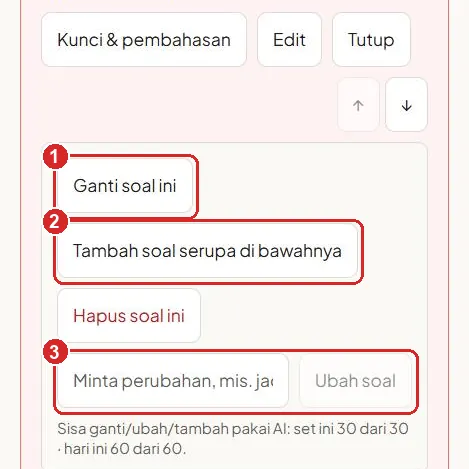
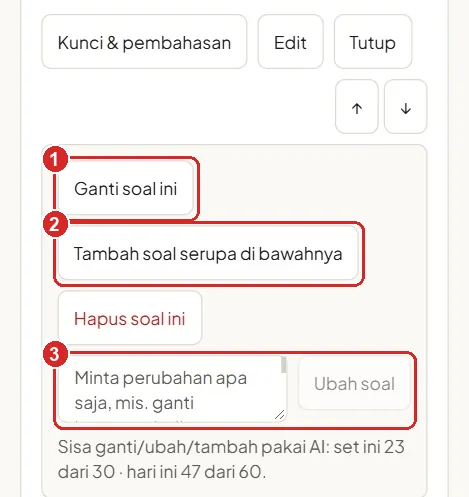
Panduan: gambar menu Lainnya diambil ulang (kotak Ubah soal 2 baris)
Foto HP 375 px (DPR 1,25) dari set uji 145, tanda 1-3 tetap: Ganti soal ini,
Tambah soal serupa, kotak permintaan + Ubah soal. Tinggi gambar 469 -> 497.

diff --git a/src/app/panduan/page.tsx b/src/app/panduan/page.tsx
@@ -154,7 +154,7 @@ const TOPIK: { id: string; judul: string; isi: React.ReactNode }[] = [
           <li>Tombol <b>↑</b> / <b>↓</b> memindah urutan soal di dalam bagiannya.</li>
           <li>Menjodohkan memakai satu daftar jawaban bersama, jadi hanya bisa diperbaiki lewat <b>Edit</b>.</li>
         </ul>
-        <Gambar nama="7-lainnya" alt="Menu Lainnya: Ganti soal ini, Tambah soal serupa, Hapus soal ini, Ubah soal" lebar={469} tinggi={469} />
+        <Gambar nama="7-lainnya" alt="Menu Lainnya: Ganti soal ini, Tambah soal serupa, Hapus soal ini, Ubah soal" lebar={469} tinggi={497} />
       </>
     ),
   },

diff --git a/CLAUDE.md b/CLAUDE.md
@@ -162,6 +162,8 @@ Hosting: DomaiNesia paket Nimbus Go (shared hosting, cPanel).
   bernomor; nomor `<N>` di teks = nomor tanda), topik & tanya-jawab dalam `<details>` (`BukaLipatan` membuka lipatan dari
   `#id`). Tombol/tampilan berubah → perbarui teks DAN ambil ulang gambarnya: foto HP 375 px di preview (akun guru.uji.b,
   sembunyikan `nextjs-portal`), koordinat CSS di `scripts/panduan-gambar.json`, lalu `scripts/panduan-tandai.py`.
+  Foto panel preview tidak bisa disimpan jadi file: 7-lainnya (0.46.0) difoto Edge headless lewat CDP (375 px, DPR 1,25,
+  mobile, cookie dari login skrip; kata sandi dibaca skrip, tidak dicetak), koordinat dari `getBoundingClientRect`.
 - **Form Set baru**: file bisa diseret ke kotak materi (sama dengan Lampirkan). Teks tempelan yang belum dipakai disimpan
   di localStorage `raciksoal-draf-materi` (`DRAF_TEKS`, hanya halaman Set baru), dihapus setelah materinya tersimpan di server.
 - **Set**: hapus = hapus lunak (`dihapus`, tetap dihitung jatah); ganti nama & hapus lewat menu ⋯ riwayat sidebar.
